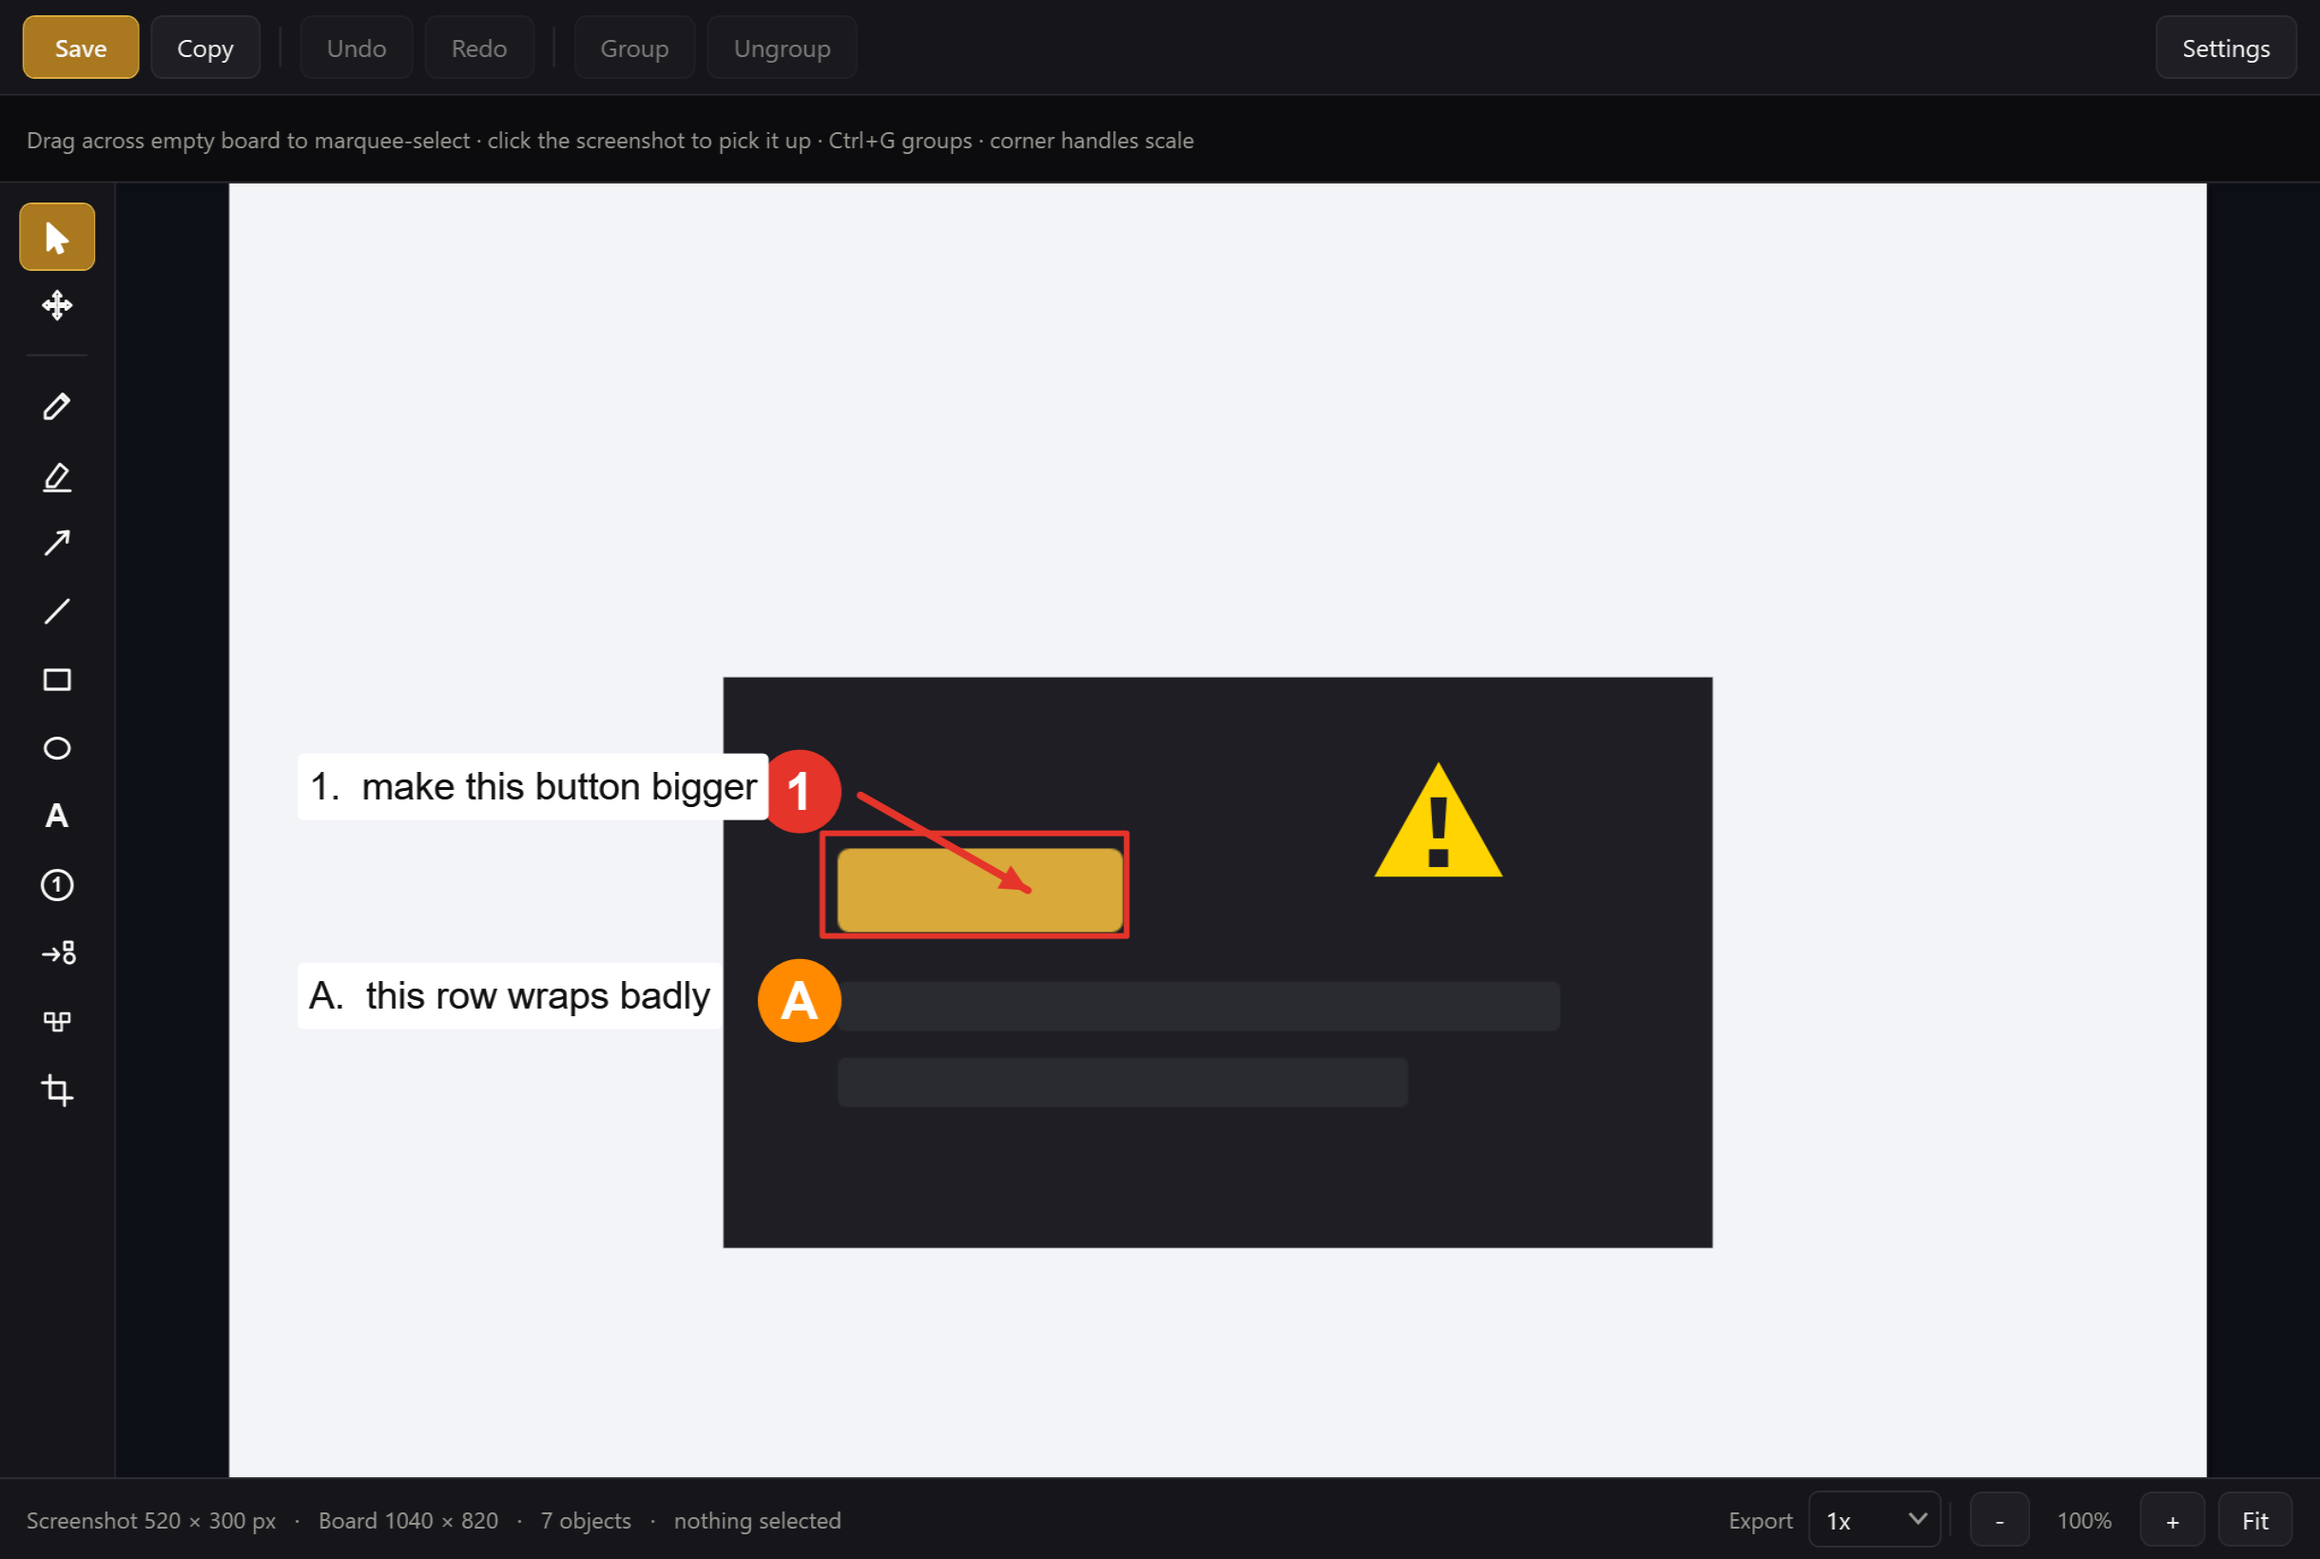
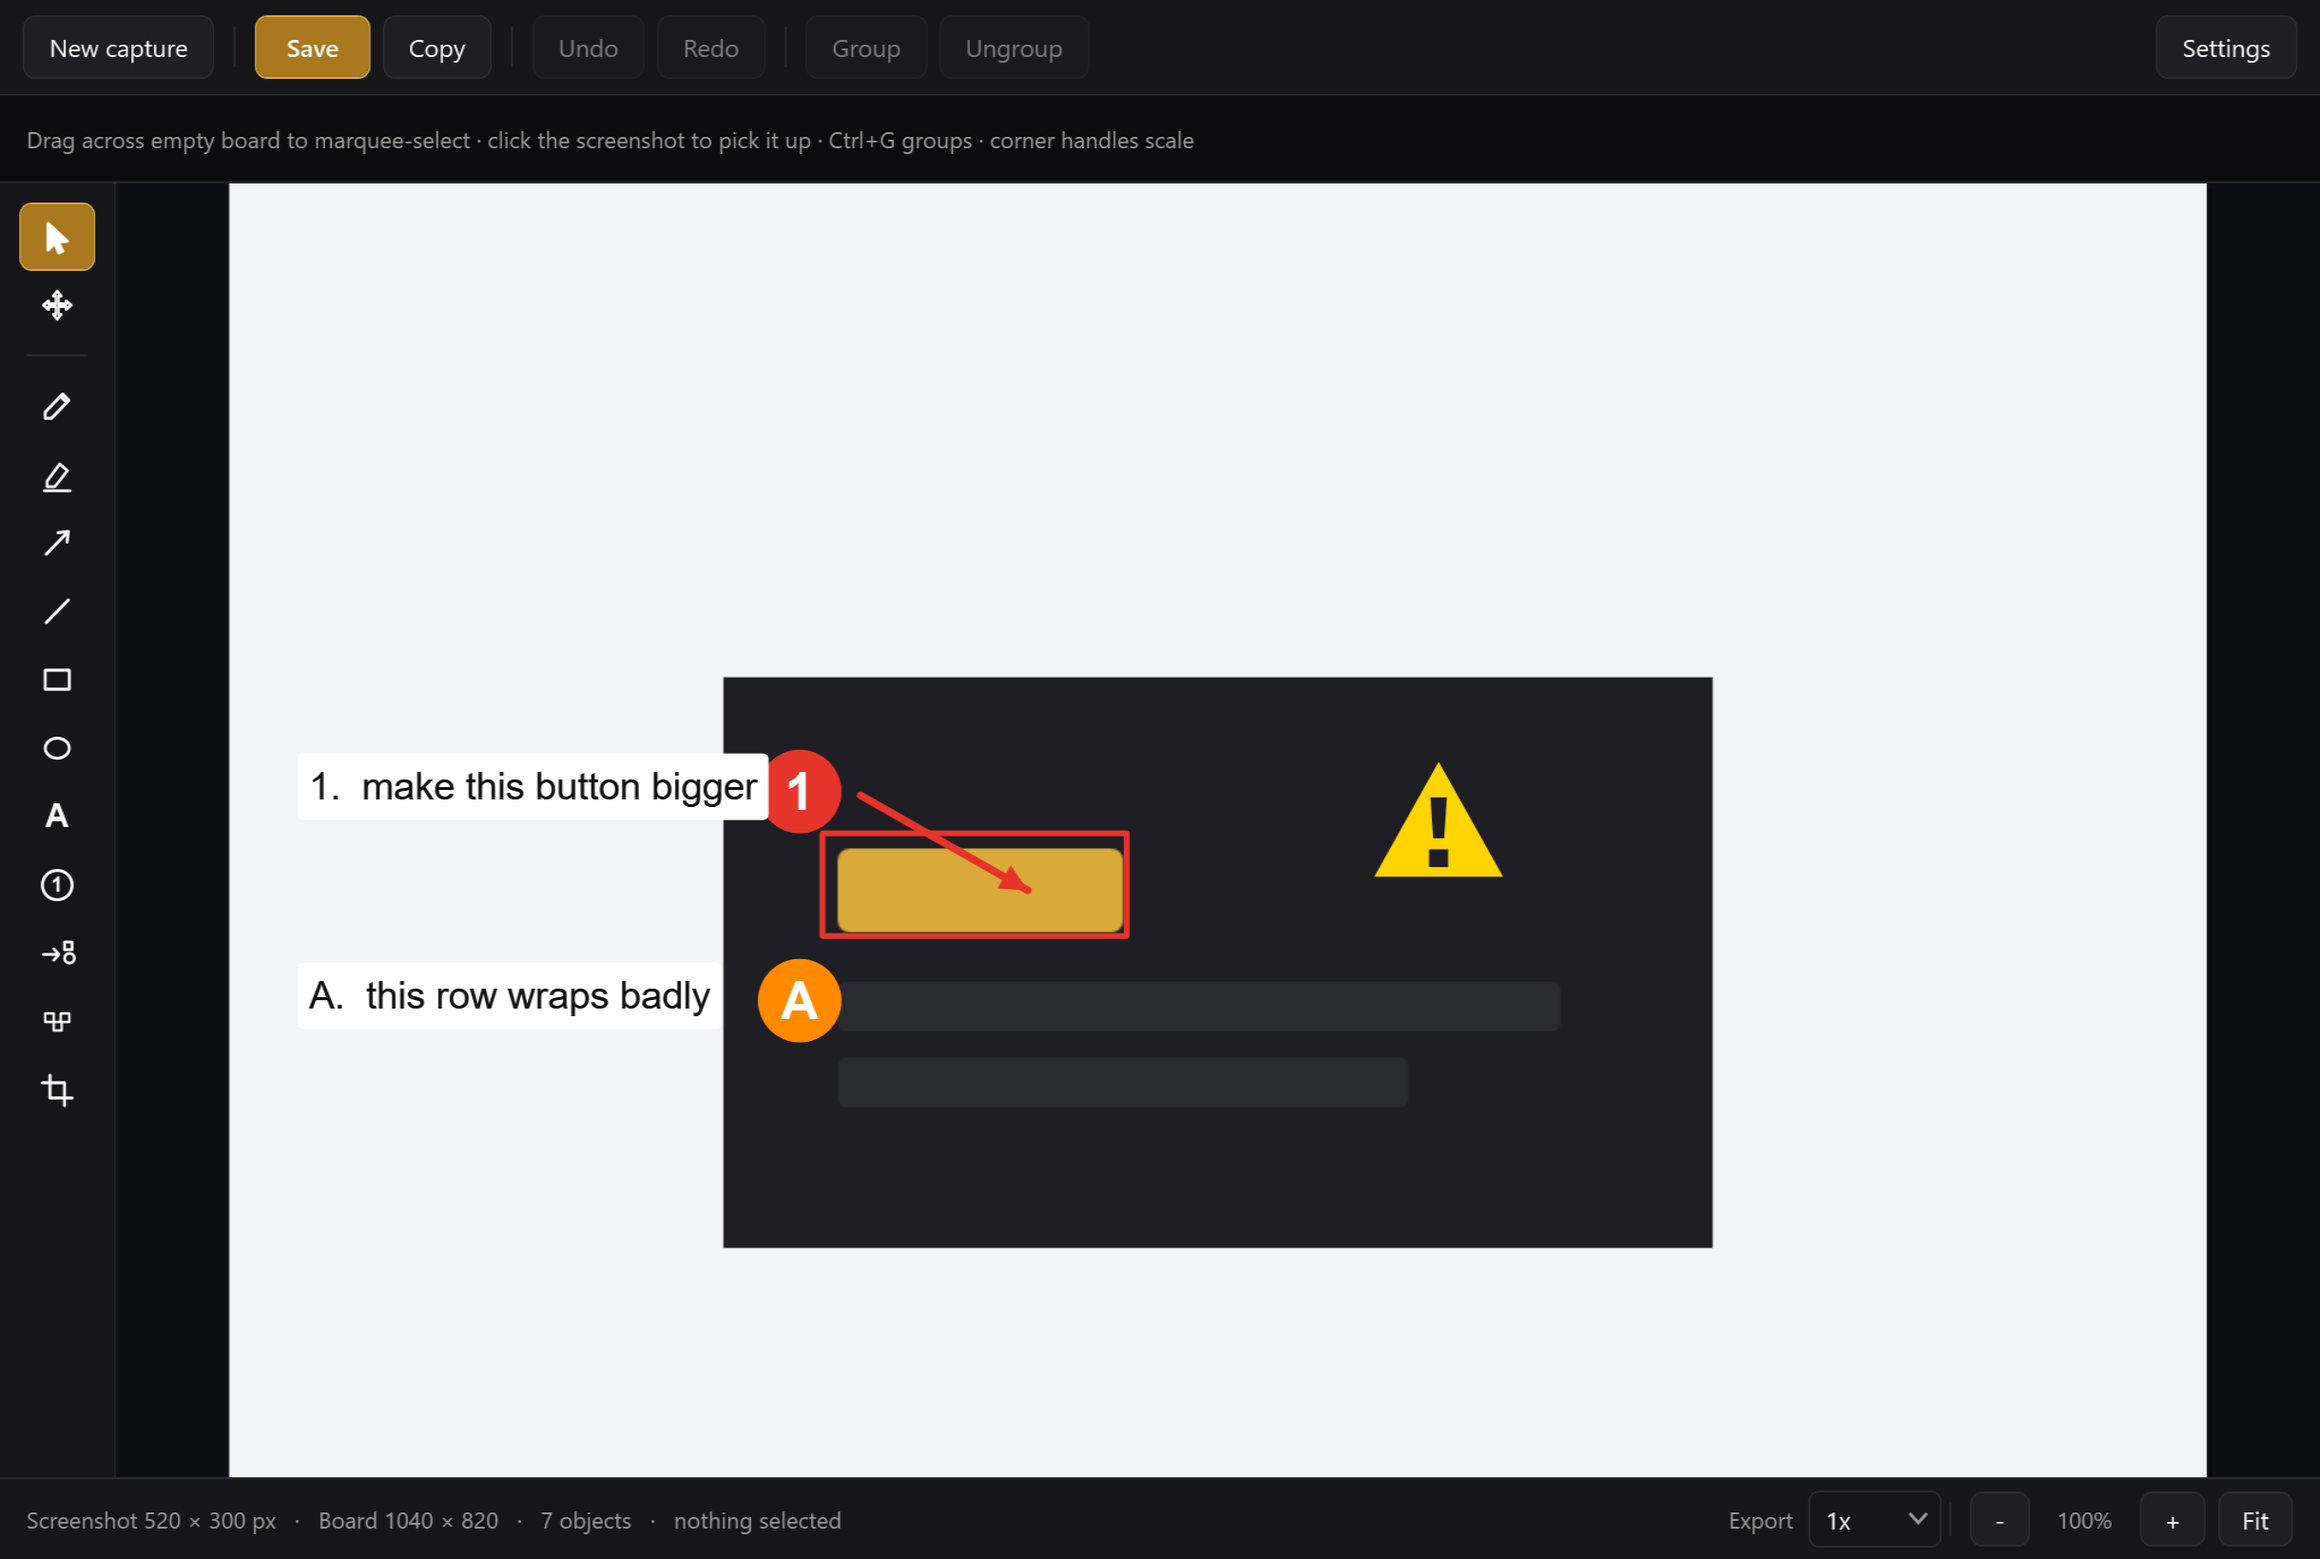
Show New capture in the docs, and say what recording has not been tried
The annotator screenshot predated the New capture button; it is regenerated
from the real window, offscreen. The other three re-rendered byte-identical.

Ctrl+N joins the README's shortcut list.

The honest gaps gain one: the recording pipeline is measured by --rectest, but
switching microphone mid-take and stopping from the global shortcut have not
been exercised end to end by anyone yet, so the README now says so.

Changed region(s): [[0.0, 0.0, 0.218, 0.0622]]

diff --git a/README.md b/README.md
@@ -298,8 +298,8 @@ publishes the single-file executable to `dist/`, and can install it with
 Inside the annotator: `V` select · `P` pencil · `K` highlighter · `L` line ·
 `A` arrow · `R` rectangle · `O` ellipse · `T` text · `S` numbered marker ·
 `D` symbols · `X` redact · `C` crop · `H` pan.
-`Ctrl+G` group, `Ctrl+Shift+G` ungroup, `Ctrl+D` duplicate, wheel to zoom,
-space-drag to pan.
+`Ctrl+N` new capture (this one stays open), `Ctrl+G` group, `Ctrl+Shift+G`
+ungroup, `Ctrl+D` duplicate, wheel to zoom, space-drag to pan.
 
 Full reference in [docs/SETUP.md](docs/SETUP.md).
 
@@ -329,6 +329,10 @@ The honest gaps:
   capture modes turned out to be the right number; a fourth was clutter.
 - **The interactive editor has no automated tests.** Rendering, grouping and
   export are covered by `--selftest`, which runs in CI; mouse interaction is not.
+- **The live recording controls have not been used in anger.** The pipeline is
+  measured — `--rectest` writes exactly `fps × seconds` frames beside a
+  continuous audio track — but switching microphone mid-take and stopping from
+  the shortcut have only been reasoned about, not exercised end to end.
 - **Unsigned.** SmartScreen will warn on first run until it has seen enough
   downloads. Signing needs a certificate this does not have.
 
